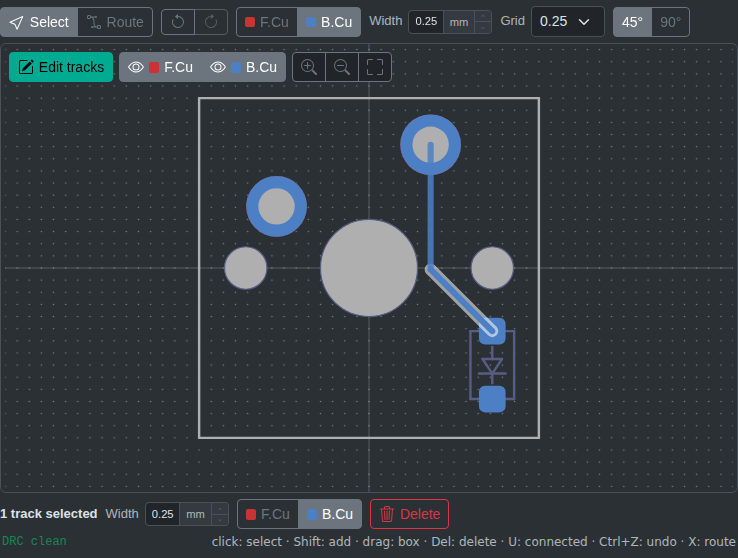
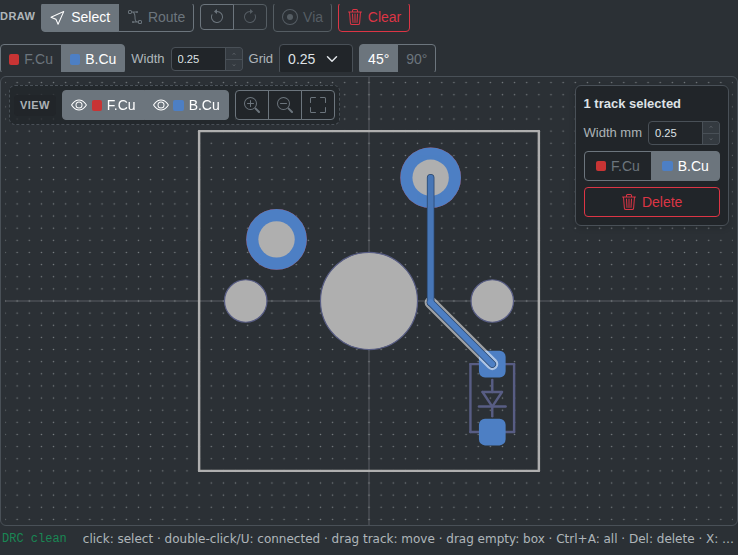
Document routing modes, vias and the reworked track editor
The track editor docs describe the five routing options in place of the
Edit tracks toggle, vias with V, Clear, double-click and Ctrl+A
selection, the View controls and the ratsnest shown in every mode.
Screenshots of the preview and the editor are refreshed.

diff --git a/docs/development/pcb-generator.md b/docs/development/pcb-generator.md
@@ -134,7 +134,7 @@ as-is; kbplacer handles the matrix on the backend.
 | File                       | Purpose                                                                                                                                                                                                                                                                                                                                                                                                                                                                                                                                                                                                                    |
 | -------------------------- | -------------------------------------------------------------------------------------------------------------------------------------------------------------------------------------------------------------------------------------------------------------------------------------------------------------------------------------------------------------------------------------------------------------------------------------------------------------------------------------------------------------------------------------------------------------------------------------------------------------------------- |
 | `PcbGeneratorPanel.vue`    | Root container. Two-column layout: tabbed controls (`ScrollableTabs`: Switches / LEDs / JSON) on the left, the results pane on the right. Renders a **"Backend Not Configured"** warning instead of the UI when `isBackendConfigured()` is false. Calls `pcbStore.cleanup()` on unmount.                                                                                                                                                                                                                                                                                                                                   |
-| `PcbGeneratorSettings.vue` | [Switches tab] Selects switch footprint, stabilizer footprint (or None), switch rotation, diode footprint / rotation / X-Y offset, and routing mode. Footprint values are the kbplacer `lib:footprint` templates (with `{:.2f}u` size placeholders). Diode offsets use `CustomNumberInput` (mm).                                                                                                                                                                                                                                                                                                                           |
+| `PcbGeneratorSettings.vue` | [Switches tab] Selects switch footprint, stabilizer footprint (or None), switch rotation, diode footprint / rotation / X-Y offset, and routing mode. The five routing options (`utils/pcb/routing-mode.ts`) are the backend's `routing` value plus whether a track preset exists (automatic or preset); leaving a preset option with drawn tracks asks first. Footprint values are the kbplacer `lib:footprint` templates (with `{:.2f}u` size placeholders). Diode offsets use `CustomNumberInput` (mm).                                                                                                                  |
 | `PcbLedSettings.vue`       | [LEDs tab] Per-key SK6812MINI-E LED-chain settings. A master **enable** checkbox drives `createLedSchFile`; an **add decoupling capacitors** checkbox is the positive-form UI over `skipLedDecoupling`. LED and capacitor footprint / rotation / side / offset fields stay visible but disabled when not applicable.                                                                                                                                                                                                                                                                                                       |
 | `PcbJsonView.vue`          | [JSON tab] CodeMirror editor over the grouped `PcbSettingsJson` form. Live validation, **Apply** (Ctrl+Enter), **Reset**, **Download** (`pcb-settings.json`), and **Upload**. Mirrors `PlateJsonView` behavior: rebuilds on theme change, syncs from the store only when the editor has no uncommitted edits.                                                                                                                                                                                                                                                                                                              |
 | `PcbGeneratorControls.vue` | **Generate PCB** button and, once a task exists, a **New Task** button. Gates generation on submitting state, active task, backend availability, VIA annotation, and matrix-duplicate validity. Surfaces `ApiError.userMessage` in an alert and shows contextual warnings (annotation required, duplicate positions).                                                                                                                                                                                                                                                                                                      |
@@ -553,7 +553,9 @@ in kbplacer's JSON preset format (kicad-kbplacer `docs/switch-preset.schema.json
 - No `diodes`: the backend adds the diode placement from `diode*` settings.
 - Only `track` and `via` items; arcs are rejected until kbplacer supports them. Front-side switches
   only (kbplacer rejects a JSON preset when a switch is on the back).
-- Ignored when `routing` is `Disabled`.
+- Never combined with `routing` `Disabled`: a defined `trackPreset` is the client's preset routing
+  mode, and the settings validator drops `tracks` with `Disabled`. A preset mode with nothing drawn
+  keeps an empty `items` list in the settings; it isn't sent, and Generate is blocked.
 - Optional `basis`: free-form, ignored by kbplacer. The editor records the switch and diode
   footprints and the diode placement (`PcbSettings` field names) on every edit; kbplacer's `to-json`
   writes `switchFootprint` and `diodeFootprints`.
@@ -565,20 +567,21 @@ positions of footprints placed by kbplacer (`scripts/generate-pcb-golden-pads.py
 
 ### Track editor {#track-editor}
 
-**Edit tracks** in `FootprintPreview.vue` turns the preview into a small KiCad-style router for the
-preset. Everything works in the switch-local frame in plain-number mm (no Decimal.js: DRC runs on
+A preset routing mode (`settings.trackPreset` defined, front-side switch) turns the preview in
+`FootprintPreview.vue` into a small KiCad-style router for the preset. Outside it, the preview still
+shows the ratsnest of the bare pads. Everything works in the switch-local frame in plain-number mm (no Decimal.js: DRC runs on
 every pointer move); the serializer converts to nm.
 
-| Part                                                                                                         | Purpose                                                                                                                                                                                                                                                                                                                                                                                                                                                                                                        |
-| ------------------------------------------------------------------------------------------------------------ | -------------------------------------------------------------------------------------------------------------------------------------------------------------------------------------------------------------------------------------------------------------------------------------------------------------------------------------------------------------------------------------------------------------------------------------------------------------------------------------------------------------- |
-| `public/data/footprints/pads/*.json`                                                                         | Pad geometry per footprint (number, type, shape, position, size, drill, layers, custom polygons), generated from the KiCad libraries of the worker image by `scripts/generate-footprint-pads.mjs` (shares `footprints.txt` with the SVG generator `generate.sh`). Committed: CI has no KiCad libraries.                                                                                                                                                                                                        |
-| `utils/kicad/sexpr.ts`, `utils/kicad/footprint-pads.ts`                                                      | S-expression parser (KiCad 5 and 6+ syntax) and `.kicad_mod` pad extraction. `placePads` applies kbplacer's placement: BACK mirrors y → −y, rotates counter-clockwise on screen and swaps F/B layers.                                                                                                                                                                                                                                                                                                          |
-| `utils/pcb-tracks/netlist.ts`                                                                                | kbplacer's fixed nets: switch pad 1 → `COL`, diode pad 1 → `ROW`, switch pad 2 and diode pad 2 → `SW_D`. Other pads (LED, capacitor) are obstacles.                                                                                                                                                                                                                                                                                                                                                            |
-| `utils/pcb-tracks/distance.ts`, `shapes.ts`                                                                  | Collision shapes as a core (point, segment, polygon) plus a radius, so circles, tracks, ovals and roundrects are exact.                                                                                                                                                                                                                                                                                                                                                                                        |
-| `utils/pcb-tracks/connectivity.ts`, `drc.ts`                                                                 | Union-find connectivity as KiCad counts it and a minimum-spanning-tree ratsnest per net. `runDrc` checks KiCad 9's defaults for a fresh board (clearance 0.2, hole clearance 0.25, hole to hole 0.25 mm, plus 1 µm margin) and shorts, which kbplacer doesn't catch.                                                                                                                                                                                                                                           |
-| `utils/pcb-tracks/posture.ts`, `snap.ts`, `selection.ts`, `direction45.ts`, `line.ts`, `drag.ts`, `basis.ts` | Two-segment 45°/90° walk, snapping (pad centres, track ends, grid), box selection, dragging ported from KiCad's router (`pns_line.cpp` `dragSegment45`/`dragCorner45` on lines of tracks joined at two-track corners, simplified each frame), and the staleness check of `preset.basis` against the settings.                                                                                                                                                                                                  |
-| `stores/pcbTracks.ts`                                                                                        | Editor state: tools, the route in progress, selection, the drag in progress (its preview replaces the saved items and follows the cursor across obstacles; a release on a design-rule error falls back to the last legal preview), DRC of preset + route + preview, and undo/redo (`composables/useSnapshotHistory.ts`). Finished operations write `pcbGenerator.settings.trackPreset` in one step; an outside write (JSON Apply, Reset, Upload, Clear) is detected by object identity and resets the history. |
-| `components/pcb/*.vue`                                                                                       | `PadLayer`, `GridLayer`, `TrackLayer`, `TrackEditorLayer`, `DrcLayer` (SVG layers), `TrackEditorToolbar`, `TrackSelectionBar`, `StalePresetBanner`. Pan/zoom is `composables/usePanZoom.ts`.                                                                                                                                                                                                                                                                                                                   |
+| Part                                                                                                         | Purpose                                                                                                                                                                                                                                                                                                                                                                                                                                                                                                                                                                    |
+| ------------------------------------------------------------------------------------------------------------ | -------------------------------------------------------------------------------------------------------------------------------------------------------------------------------------------------------------------------------------------------------------------------------------------------------------------------------------------------------------------------------------------------------------------------------------------------------------------------------------------------------------------------------------------------------------------------- |
+| `public/data/footprints/pads/*.json`                                                                         | Pad geometry per footprint (number, type, shape, position, size, drill, layers, custom polygons), generated from the KiCad libraries of the worker image by `scripts/generate-footprint-pads.mjs` (shares `footprints.txt` with the SVG generator `generate.sh`). Committed: CI has no KiCad libraries.                                                                                                                                                                                                                                                                    |
+| `utils/kicad/sexpr.ts`, `utils/kicad/footprint-pads.ts`                                                      | S-expression parser (KiCad 5 and 6+ syntax) and `.kicad_mod` pad extraction. `placePads` applies kbplacer's placement: BACK mirrors y → −y, rotates counter-clockwise on screen and swaps F/B layers.                                                                                                                                                                                                                                                                                                                                                                      |
+| `utils/pcb-tracks/netlist.ts`                                                                                | kbplacer's fixed nets: switch pad 1 → `COL`, diode pad 1 → `ROW`, switch pad 2 and diode pad 2 → `SW_D`. Other pads (LED, capacitor) are obstacles.                                                                                                                                                                                                                                                                                                                                                                                                                        |
+| `utils/pcb-tracks/distance.ts`, `shapes.ts`                                                                  | Collision shapes as a core (point, segment, polygon) plus a radius, so circles, tracks, ovals and roundrects are exact.                                                                                                                                                                                                                                                                                                                                                                                                                                                    |
+| `utils/pcb-tracks/connectivity.ts`, `drc.ts`                                                                 | Union-find connectivity as KiCad counts it and a minimum-spanning-tree ratsnest per net. `runDrc` checks KiCad 9's defaults for a fresh board (clearance 0.2, hole clearance 0.25, hole to hole 0.25 mm, plus 1 µm margin) and shorts, which kbplacer doesn't catch.                                                                                                                                                                                                                                                                                                       |
+| `utils/pcb-tracks/posture.ts`, `snap.ts`, `selection.ts`, `direction45.ts`, `line.ts`, `drag.ts`, `basis.ts` | Two-segment 45°/90° walk, snapping (pad centres, track ends, grid), box selection, dragging ported from KiCad's router (`pns_line.cpp` `dragSegment45`/`dragCorner45` on lines of tracks joined at two-track corners, simplified each frame), and the staleness check of `preset.basis` against the settings.                                                                                                                                                                                                                                                              |
+| `stores/pcbTracks.ts`                                                                                        | Editor state: tools, the route in progress (vertices, per-segment layers and the vias placed with `V`), selection, the drag in progress (its preview replaces the saved items and follows the cursor across obstacles; a release on a design-rule error falls back to the last legal preview), DRC of preset + route + preview, and undo/redo (`composables/useSnapshotHistory.ts`). Finished operations write `pcbGenerator.settings.trackPreset` in one step; an outside write (JSON Apply, Reset, Upload, Clear) is detected by object identity and resets the history. |
+| `components/pcb/*.vue`                                                                                       | `PadLayer`, `GridLayer`, `TrackLayer`, `TrackEditorLayer`, `DrcLayer` (SVG layers), `TrackEditorToolbar`, `TrackSelectionBar`, `StalePresetBanner`. Pan/zoom is `composables/usePanZoom.ts`.                                                                                                                                                                                                                                                                                                                                                                               |
 
 Items are written in chain order, walking outward from a pad, and shared vertices are the same
 point: kbplacer places items in order and matches track ends exactly. Tests live next to each module

diff --git a/docs/pcb-generator.md b/docs/pcb-generator.md
@@ -32,10 +32,10 @@ The easiest way to assign matrix coordinates is to use [Add Switch Matrix Coordi
 1. Verify your layout has matrix coordinates assigned
 2. Open the **PCB Generator** panel
 3. Configure switch, diode, and routing options as needed
-4. Use the preview window to check key-diode placement, and optionally [draw the switch–diode tracks](#track-presets)
+4. Use the preview window to check key-diode placement (a dashed line shows which switch pad the diode connects to), and optionally [draw the switch–diode tracks](#track-presets)
 
-<img src="/pcb-generator-footprint-preview-light.png" class="docs-screenshot light-only" alt="PCB footprints preview" style="max-width:50%" />
-<img src="/pcb-generator-footprint-preview-dark.png" class="docs-screenshot dark-only" alt="PCB footprints preview" style="max-width:50%" />
+<img src="/pcb-generator-footprint-preview-light.png" class="docs-screenshot light-only" alt="PCB footprints preview of a switch and diode, with a dashed line from switch pad 2 to the diode" style="max-width:50%" />
+<img src="/pcb-generator-footprint-preview-dark.png" class="docs-screenshot dark-only" alt="PCB footprints preview of a switch and diode, with a dashed line from switch pad 2 to the diode" style="max-width:50%" />
 
 5. Click **Generate PCB**
 6. Wait for the server to process your layout
@@ -77,34 +77,41 @@ The editor always reflects changes made on the **Switches** and **LEDs** tabs. O
 
 ## Drawing Switch–Diode Tracks {#track-presets}
 
-Instead of the automatic router, you can draw the tracks between one switch and its diode, and have them copied to every key. These tracks are the **track preset**. Draw them in the footprint preview: click **Edit tracks** to open the editor.
+Instead of the automatic router, you can draw the tracks between one switch and its diode, and have them copied to every key. These tracks are the **track preset**. **Routing** decides where switch–diode tracks come from:
+
+- **Switch-diode only (automatic)** and **Full (automatic)**: the generator's router draws them.
+- **Switch-diode only (preset)** and **Full (preset)**: you draw them, and the footprint preview turns into the track editor. **Full** also routes rows and columns.
+- **Disabled**: nothing is routed.
+
+Choosing another option after drawing tracks asks before removing them (switching between the two preset options keeps them). In a preset option, **Generate PCB** needs at least one drawn track.
 
 <img src="/pcb-track-editor-routing-light.png" class="docs-screenshot light-only" alt="Track editor routing from switch pad 2 towards the diode anode, with a dashed line to the unrouted pad" />
 <img src="/pcb-track-editor-routing-dark.png" class="docs-screenshot dark-only" alt="Track editor routing from switch pad 2 towards the diode anode, with a dashed line to the unrouted pad" />
 
-The editor shows the copper pads of the switch and diode (and of the LED and capacitor when **Add per-key LED** is on). A dashed line marks each connection that still needs a track: switch pad 2 to the diode anode. Tracks are drawn with the switch at 0° on the front side; the generator rotates them with each key.
+The editor shows the copper pads of the switch and diode (and of the LED and capacitor when **Add per-key LED** is on). A dashed line marks each connection that still needs a track: switch pad 2 to the diode anode. It shows in every routing option, so you can see where the diode connects while placing it. Tracks are drawn with the switch at 0° on the front side; the generator rotates them with each key.
 
 **Drawing a track:**
 
 1. Choose **Route** (or press `X` with the cursor over a pad) and click the pad to start from.
 2. Move the cursor: the track follows it with a straight and a 45° part (or an L shape with **90°**). Press `/` to swap the order of the two parts.
 3. Click to add a corner. Clicking a pad of the same connection finishes the track; double-click or `End` finishes it at the last corner.
-4. `Backspace` removes the last corner, `Esc` cancels the track.
+4. To change layer, press `V` (or click **Via**): a via is placed at the end of the track, and the track continues on the other layer.
+5. `Backspace` removes the last via or corner, `Esc` cancels the track.
 
-The cursor snaps to pad centres, to track ends and to the **Grid**. Set the **Width** and the copper layer (**F.Cu** or **B.Cu**) in the toolbar before drawing; `W` and `Shift+W` step through common widths.
+The cursor snaps to pad centres, to track ends and vias, and to the **Grid**. The **Draw** toolbar above the canvas sets how new tracks are drawn: the copper layer (**F.Cu** or **B.Cu**), **Width** and **Grid** (both in mm) and the corner angle. `W` and `Shift+W` step through common widths. Vias use KiCad's default size (0.6 mm, 0.3 mm drill).
 
 The editor checks every click against KiCad's default design rules (0.2 mm clearance, 0.25 mm to holes) and against shorts with pads of other connections. A click that breaks a rule is refused, and the status bar says why. The status bar also shows **DRC clean** once every connection is routed without errors.
 
-**Editing tracks:** with **Select**, click a track to select it, `Shift`+click to add to the selection, or drag a box from empty space (left to right selects tracks inside it, right to left also those it touches). `U` adds the tracks connected to the selection. The bar under the canvas changes the width and layer of the selected tracks or deletes them (`Delete`). Clicking a pad highlights its connection.
+**Editing tracks:** with **Select**, the track or via under the cursor is outlined; click it to select it, `Shift`+click to add to the selection, or drag a box from empty space (left to right selects tracks inside it, right to left also those it touches). Double-click a track, or press `U`, to select everything connected to it; `Ctrl+A` selects all tracks on the visible layers. The panel in the top-right corner of the canvas changes the width and layer of the selected tracks or deletes the selection (`Delete`). **Clear** in the toolbar removes all tracks. Clicking a pad highlights its connection.
 
 **Dragging tracks** works like KiCad's router (45° mode, highlight collisions). With **Select**, drag a track sideways to move it: it keeps its direction and its corners stay at 45°/90°. A neighbour at a 90° corner stretches along its own line; one at a 45° corner follows at 45°, and flips to the other diagonal when you drag past its far end. An end on a pad, via or junction stays put, joined by a new 45° track. Drag a corner (or a free track end) to move it; the tracks on both sides are rebuilt at 45°. The drag snaps to the grid and lines tracks up with pads and track ends of their connection; tracks that shrink to nothing disappear and tracks that line up merge while you drag. So a route doesn't have to be exact while drawing: put a corner close to where it belongs, finish on the pad, then drag the segment into line to remove the extra jog. The drag can pass over holes and pads: errors are marked while dragging, and if you let go where there is one, the track goes back to the last position without errors. `Esc` during a drag puts the tracks back.
 
-<img src="/pcb-track-editor-selection-light.png" class="docs-screenshot light-only" alt="Track editor with the diagonal track selected and the selection bar showing its width, layer and a Delete button" />
-<img src="/pcb-track-editor-selection-dark.png" class="docs-screenshot dark-only" alt="Track editor with the diagonal track selected and the selection bar showing its width, layer and a Delete button" />
+<img src="/pcb-track-editor-selection-light.png" class="docs-screenshot light-only" alt="Track editor with the diagonal track selected and a panel in the canvas corner showing its width, layer and a Delete button" />
+<img src="/pcb-track-editor-selection-dark.png" class="docs-screenshot dark-only" alt="Track editor with the diagonal track selected and a panel in the canvas corner showing its width, layer and a Delete button" />
 
-Undo and redo work for every change (`Ctrl+Z`, `Ctrl+Shift+Z` or `Ctrl+Y`, or the toolbar buttons). Navigate with the mouse wheel (zoom) and middle-drag or `Space`+drag (pan); the eye buttons hide a layer.
+Undo and redo work for every change, **Clear** included (`Ctrl+Z`, `Ctrl+Shift+Z` or `Ctrl+Y`, or the toolbar buttons). Navigate with the mouse wheel (zoom) and middle-drag or `Space`+drag (pan). The **View** controls on the canvas only change what you see: the eye buttons hide a copper layer with its pads and tracks, and the zoom buttons zoom in, out and to fit.
 
-Tracks are saved with the other PCB settings and are sent with **Generate PCB**. **Routing** must be **Switch-Diode only** or **Full**; with routing disabled the tracks are ignored. Tracks are only supported for front-side switches.
+Tracks are saved with the other PCB settings and are sent with **Generate PCB**. They are only supported for front-side switches, so the preset routing options are unavailable when the switch is on the back.
 
 ### When Settings Change {#track-presets-stale}
 
@@ -113,7 +120,7 @@ Tracks only connect the pads they were drawn around. If you change the switch fo
 <img src="/pcb-track-editor-stale-light.png" class="docs-screenshot light-only" alt="Footprint preview with a message over its bottom edge saying the diode position changed since the tracks were drawn, with Keep and Clear buttons" />
 <img src="/pcb-track-editor-stale-dark.png" class="docs-screenshot dark-only" alt="Footprint preview with a message over its bottom edge saying the diode position changed since the tracks were drawn, with Keep and Clear buttons" />
 
-Check the tracks in the editor: errors and unrouted connections are marked. **Keep** hides the message for the current settings, **Clear** removes all tracks. When several settings changed, hover the message to see the old and new values. Outside the editor, a badge in the preview shows the check result.
+Check the tracks in the editor: errors and unrouted connections are marked. **Keep** hides the message for the current settings, **Clear** removes all tracks (undo brings them back). When several settings changed, hover the message to see the old and new values.
 
 ### Track Presets in JSON {#track-presets-json}
 
@@ -147,7 +154,8 @@ The tracks are part of the JSON settings, as a `tracks` section, so they are sav
 This example connects pad 2 of a Cherry MX switch to the anode of the default SOD-123F diode (placed at `5.08`, `4`, rotated `90`, on the back), passing between the center hole and the right side hole. It is what the editor produces when you route from switch pad 2 to the diode anode.
 
 - **Coordinates** are in nanometres (1 mm = 1000000), relative to the switch center, with the switch at 0° on the front side and +Y pointing down, as in KiCad.
-- **Items** are `track` (`start`, `end`, `width_nm`, `layer`) or `via` (`position`, `diameter_nm`, `drill_diameter_nm`). Layers are `F.Cu` or `B.Cu`. Arcs are not supported yet, and the editor can't draw vias yet.
+- **Items** are `track` (`start`, `end`, `width_nm`, `layer`) or `via` (`position`, `diameter_nm`, `drill_diameter_nm`). Layers are `F.Cu` or `B.Cu`. Arcs are not supported yet.
+- **Routing:** a `tracks` section selects the preset option of its `routing`, and an empty `items` list is a preset option with nothing drawn yet. With `"routing": "Disabled"` the section is dropped.
 - **Diode placement** comes from the diode settings, so a preset must not contain a `diodes` section.
 - **basis** (optional) records the footprints and diode placement the tracks were drawn for. The editor writes it; it drives the [settings-changed warning](#track-presets-stale).
 
